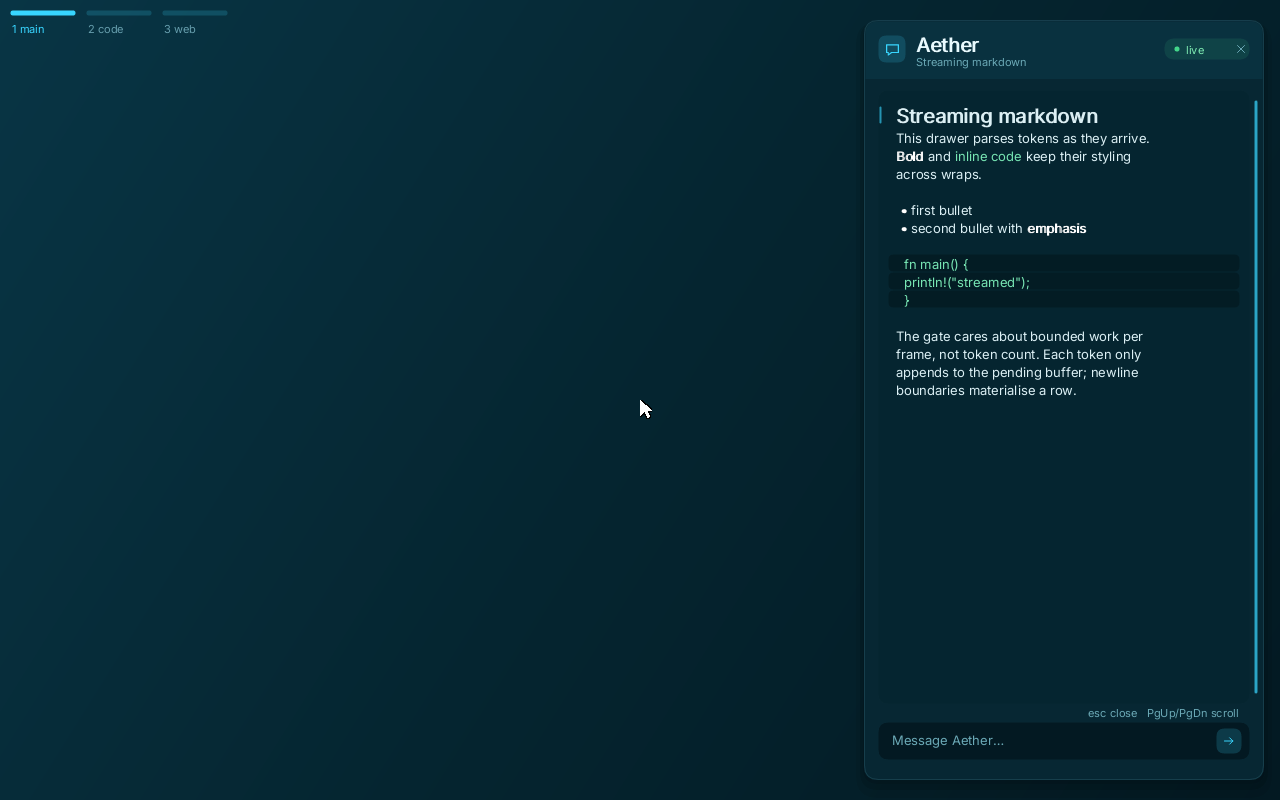
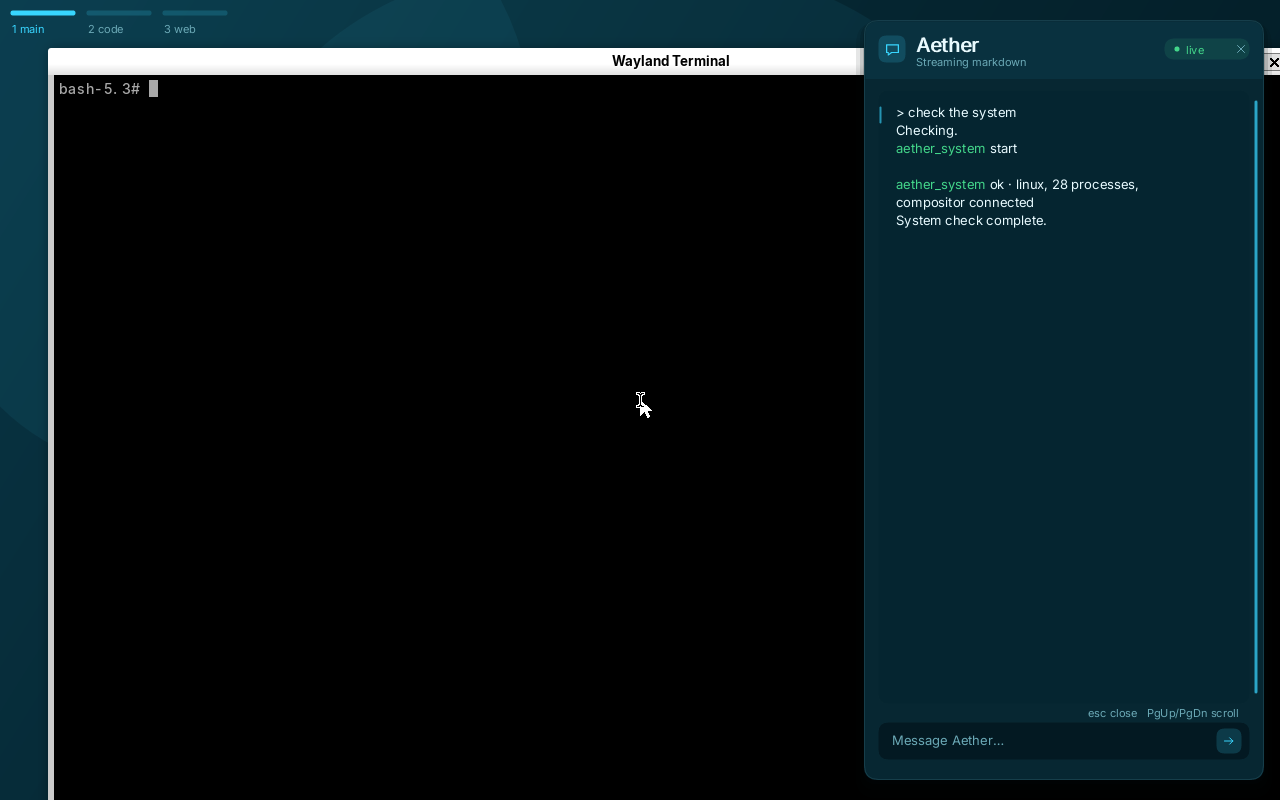
feat(web): add the themes capture and refresh chat
Capture the Themes app from the Smithay shell under Xvfb and surface it in
the marketing gallery with Super+T. Replace the chat capture with the
promptable drawer and its MCP tool-call trace, and add a reproducible
smoke-themes-xvfb.sh that asserts the tone change persists.

Update the gallery e2e counts and filter selectors for the seventh capture.

diff --git a/apps/web/src/sections/Screenshots.tsx b/apps/web/src/sections/Screenshots.tsx
@@ -69,8 +69,8 @@ const SHOTS: Shot[] = [
     shortcut: "Super+C",
     category: "overlays",
     caption:
-      "A chat drawer that renders markdown tokens as they arrive — headings, lists and code — bounded per frame rather than per token.",
-    alt: "Aether chat drawer showing streaming markdown with a code block and message input.",
+      "A chat drawer that streams markdown and renders MCP tool-call traces inline. Work is bounded per frame rather than per token, and the composer stays one keystroke away.",
+    alt: "Aether chat drawer showing a streamed reply with an aether_system tool-call trace over a terminal.",
   },
   {
     id: "audio",
@@ -81,6 +81,16 @@ const SHOTS: Shot[] = [
     caption:
       "Every output, input and latency preset is a first-class object. Switch routes with the keyboard and watch the input meter move.",
     alt: "Aether audio overlay listing analog, USB and Bluetooth outputs and inputs with an input level meter.",
+  },
+  {
+    id: "themes",
+    file: "screenshots/themes.png",
+    title: "Themes app",
+    shortcut: "Super+T",
+    category: "overlays",
+    caption:
+      "Theme mode, the five Water effect switches, flow speed, drip energy, background, tone and glass surfaces in one panel. Changes reach the compositor immediately and persist on the device.",
+    alt: "Aether Themes app listing theme mode, Water effect switches, flow speed, drip energy, background, water tone and glass surfaces.",
   },
   {
     id: "remote",

diff --git a/e2e/site.spec.ts b/e2e/site.spec.ts
@@ -93,7 +93,7 @@ test.describe("marketing site", () => {
     await page.goto("/#screenshots");
 
     const shots = page.locator(".shot__image");
-    await expect(shots).toHaveCount(6);
+    await expect(shots).toHaveCount(7);
     for (const shot of await shots.all()) {
       await shot.scrollIntoViewIfNeeded();
       expect(await shot.evaluate((img) => (img as HTMLImageElement).naturalWidth)).toBeGreaterThan(0);
@@ -111,12 +111,12 @@ test.describe("marketing site", () => {
     await page.goto("/#screenshots");
 
     const filters = page.getByRole("group", { name: "Filter captures" });
-    await filters.getByRole("button", { name: "Windows 2" }).click();
+    await filters.getByRole("button", { name: /^Windows/ }).click();
     await expect(page.locator(".shot__image")).toHaveCount(3);
     await expect(page.getByRole("button", { name: "Open screenshot: Streaming chat" })).toHaveCount(0);
 
-    await filters.getByRole("button", { name: "All 5" }).click();
-    await expect(page.locator(".shot__image")).toHaveCount(6);
+    await filters.getByRole("button", { name: /^All/ }).click();
+    await expect(page.locator(".shot__image")).toHaveCount(7);
 
     await page.getByRole("button", { name: "Open screenshot: Command palette" }).click();
     const lightbox = page.locator(".lightbox");
